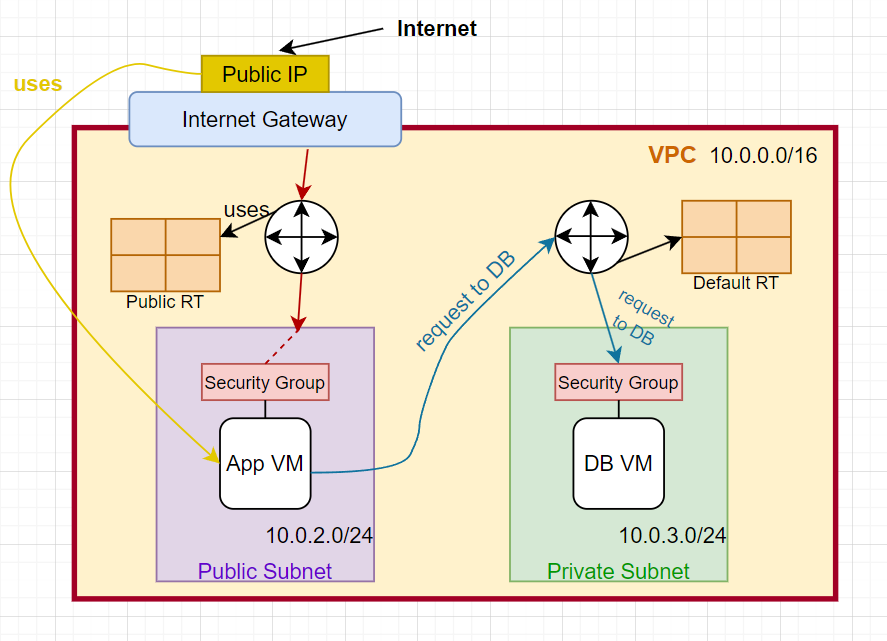
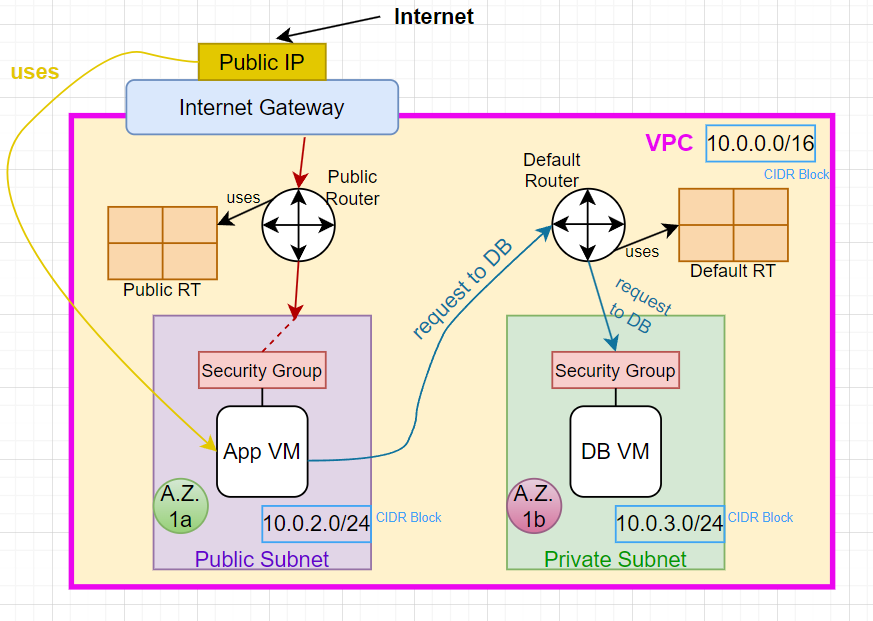
Final update of the day on VPC

diff --git a/virtual_private_cloud/what_is_vpc.md b/virtual_private_cloud/what_is_vpc.md
@@ -22,7 +22,7 @@ We will have a Public Subnet (A.Z. 1a) and a Private Subnet (A.Z. 1b)
 
 ![AltText](Images/vpc_diagram_steps.png)
 
-```placeholder for DIAGRAM```
+```placeholder for DIAGRAM w. STEPS```
 
 <br>
 
